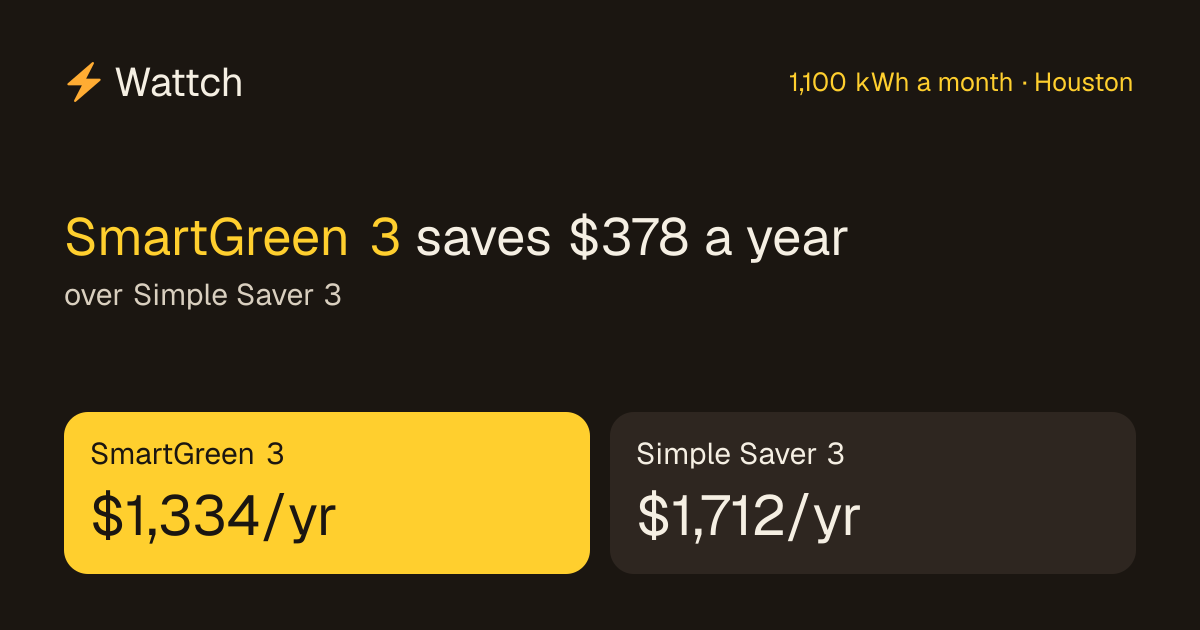
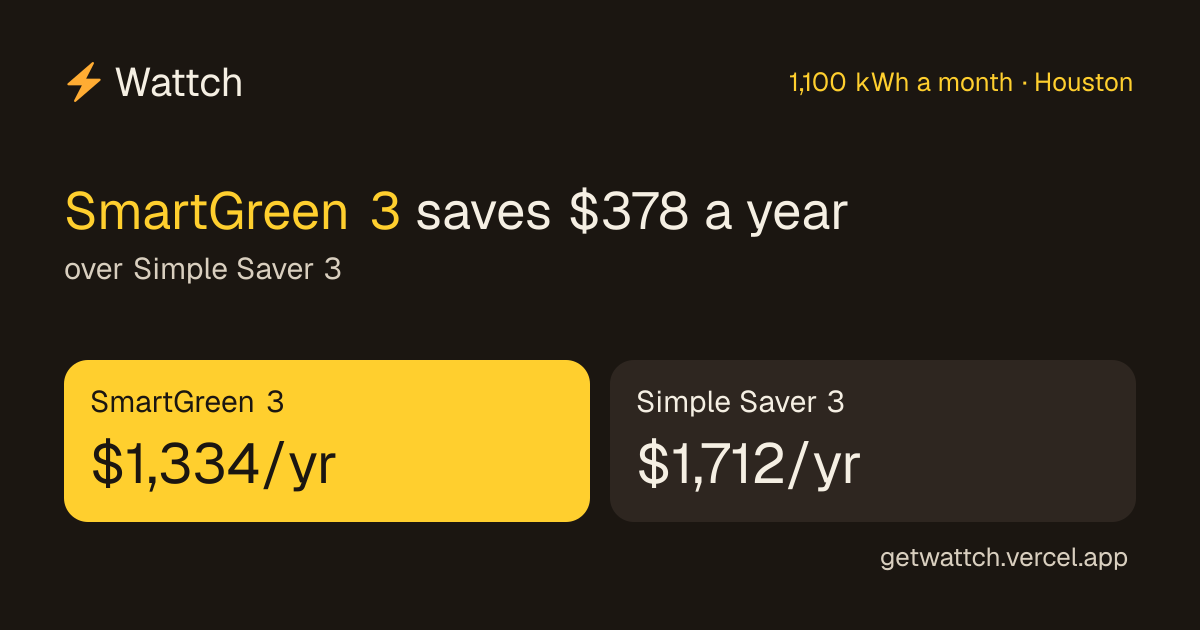
Codex 17: no findings. Card route: general result computed only when needed, one size/cache constant, compare card footer; route test proves all 7 variants return real PNGs. widths.mjs covers the Dallas compare pair + own months. 224 tests

diff --git a/src/app/api/card/route.tsx b/src/app/api/card/route.tsx
@@ -21,12 +21,9 @@ const money = (n: number) => n.toLocaleString("en-US", { style: "currency", curr
 export async function GET(req: Request) {
   const sp = new URL(req.url).searchParams;
   const { kwh, seasons, months, filters, withConditional, area, lang } = parseWallParams((k) => sp.get(k));
-  const r = reveal(clientPlans(area), kwh, { seasons, months, area, includeConditional: withConditional, ...filterOpts(filters) });
-  const big = r.pick && r.gap >= 1;
   const t = W[lang];
-  const why = r.pick ? whyLine(r.pick.plan.pricing!, r.pick.months, lang) : null;
-  // ?plan=<id> (plan pages): that plan's real cost and rank, when it's ranked; otherwise the general card below
   const opts = { seasons, months, area, includeConditional: withConditional, ...filterOpts(filters) };
+  // ?plan=<id> (plan pages): that plan's real cost and rank, when it's ranked; otherwise the general card below
   const planId = sp.get("plan");
   const st = planId ? standing(clientPlans(area), planId, kwh, opts) : null;
   // ?a=&b= (compare pages): the same yearly totals the compare page shows, when both plans exist in the same area
@@ -37,6 +34,10 @@ export async function GET(req: Request) {
     return compareCard(c, pa.meta.planName, pb.meta.planName, t, `${months ? t.mine : t.perMonth(kwh.toLocaleString("en-US"))} · ${AREAS[ar].city}`);
   }
   if (st) return planCard(st, t, `${months ? t.mine : t.perMonth(kwh.toLocaleString("en-US"))} · ${AREAS[area].city}${anyFilter(filters) ? t.filtered : ""}`);
+  // the general card: the state site's #1 vs your best (only computed when no plan/compare card was returned)
+  const r = reveal(clientPlans(area), kwh, opts);
+  const big = r.pick && r.gap >= 1;
+  const why = r.pick ? whyLine(r.pick.plan.pricing!, r.pick.months, lang) : null;
   return new ImageResponse(
     (
       <div style={{ width: "100%", height: "100%", display: "flex", flexDirection: "column", justifyContent: "space-between", background: "#1b1611", color: "#f5efe3", padding: "56px 64px", fontFamily: "sans-serif" }}>
@@ -62,7 +63,7 @@ export async function GET(req: Request) {
         </div>
       </div>
     ),
-    { width: 1200, height: 630, headers: { "Cache-Control": "public, max-age=3600" } },
+    SIZE,
   );
 }
 
@@ -120,9 +121,12 @@ function compareCard(c: ReturnType<typeof compareYear>, nameA: string, nameB: st
             : <div style={{ display: "flex", fontSize: 52, fontWeight: 800 }}>{t.sameCost}</div>}
           {d >= 1 && <div style={{ display: "flex", fontSize: 30, color: "#d9cfbf", marginTop: 8 }}>{t.over(lose)}</div>}
         </div>
-        <div style={{ display: "flex", gap: 20 }}>
-          {box(nameA, c.totalA, c.diff > 0)}
-          {box(nameB, c.totalB, c.diff < 0)}
+        <div style={{ display: "flex", flexDirection: "column" }}>
+          <div style={{ display: "flex", gap: 20 }}>
+            {box(nameA, c.totalA, c.diff > 0)}
+            {box(nameB, c.totalB, c.diff < 0)}
+          </div>
+          <div style={{ display: "flex", justifyContent: "flex-end", fontSize: 26, color: "#d9cfbf", marginTop: 18 }}>getwattch.vercel.app</div>
         </div>
       </div>
     ),

diff --git a/src/app/api/card/route.test.ts b/src/app/api/card/route.test.ts
@@ -1,0 +1,28 @@
+import { describe, expect, it, vi } from "vitest";
+
+vi.mock("server-only", () => ({}));
+const { GET } = await import("./route");
+
+const png = async (q: string) => {
+  const r = await GET(new Request(`http://x/api/card?${q}`));
+  const body = new Uint8Array(await r.arrayBuffer());
+  return { status: r.status, type: r.headers.get("content-type"), cache: r.headers.get("cache-control"), sig: [...body.slice(1, 4)].map((c) => String.fromCharCode(c)).join("") };
+};
+
+// Every share-card variant is a real PNG with the same cache header, including for bad or unknown input.
+describe("/api/card", () => {
+  for (const q of [
+    "kwh=1100", "kwh=1100&lang=es&area=dallas", // general card
+    "kwh=1100&plan=33633", "kwh=1100&plan=nope", // plan card / unknown plan → general
+    "kwh=1100&a=37797&b=33633&lang=es", "kwh=1100&a=37797&b=17283", // compare / mixed areas → general
+    "kwh=abc&area=xx&lang=fr&a=1&b=2&plan=", // nonsense
+  ]) {
+    it(q, async () => {
+      const r = await png(q);
+      expect(r.status).toBe(200);
+      expect(r.type).toBe("image/png");
+      expect(r.sig).toBe("PNG");
+      expect(r.cache).toBe("public, max-age=3600");
+    }, 30000);
+  }
+});

diff --git a/PROGRESS.md b/PROGRESS.md
@@ -172,3 +172,5 @@ Dallas–Fort Worth works everywhere; every page has Spanish (incl. loading scre
 - 2026-11-16 03:49 PT · U1 plan-card math moved to standing() in src/lib/rank.ts; test: standing = reveal (rank, count, gap) for the state #1 at 600/1,100/2,000 kWh in both areas, best = #1, demo #74/154/$378 and #91/137/$530. 217 tests. $0.
 - 2026-11-16 03:51 PT · U2 shared compare links preview the comparison: /api/card?a=&b= → 'SmartGreen 3 saves $378 a year over Simple Saver 3' + both yearly totals (cheaper one highlighted), EN/ES, same compareYear as the page; mixed areas → general card; same plan → 'Same yearly cost'. check-all PASS. $0.
 - 2026-11-16 03:53 PT · U4 own-months Spanish at 375 + Dallas: fits, 'Con tus propios 12 meses', $356, 6 months under 1,000 kWh (= the months given). The months.ts comment said ?m=820,700 — the real format is dots (commas read as thousands, so a comma list is ignored safely) → comment fixed. U9 Lighthouse /plan/33633 EN 94/100/100/91 (same as before the card change). U3 DEVPOST 'Share it' line mentions plan + compare previews (both verified tonight). $0.
+- 2026-11-16 03:53 PT · V2 all card variants send Cache-Control public, max-age=3600; each query is its own URL, so plan/compare/general previews can't mix. V5 /remind keeps the general card (no result on that page to show). No change. $0.
+- 2026-11-16 03:56 PT · U10 Codex review 17: no findings. V1 card route computes the general result only when no plan/compare card is returned; one SIZE/cache constant. V3 compare card gets the site footer. V4 src/app/api/card/route.test.ts: 7 variants (general, Dallas ES, plan, unknown plan, compare ES, mixed areas, nonsense) all 200 image/png, real PNG bytes, same cache header. V9 widths.mjs + Dallas compare pair + own-months page (40 checks pass). 224 tests. $0.

diff --git a/BACKLOG.md b/BACKLOG.md
@@ -212,4 +212,16 @@
 - [x] U7 Re-run es-walk + widths + meta-check + axe as one 'all checks' script (scripts/check-all.mjs) for the morning
 - [x] U8 README: 'How to check' section lists check-all
 - [x] U9 Lighthouse /plan/33633 EN after card change (no perf hit)
-- [ ] U10 Codex review 17 after U batch
+- [x] U10 Codex review 17 after U batch
+
+## V batch (added 03:53, night 2)
+- [x] V1 Card route: skip the general reveal() when a plan/compare card is returned (wasted work per preview)
+- [x] V2 Card cache header: plan/compare cards same max-age; confirm Vercel caches by full query (doc only)
+- [x] V3 Plan + compare cards: footer line (getwattch.vercel.app) on compare card like the others
+- [x] V4 Test: card route returns image/png for plan=, a=&b=, bad ids (route test, no pixel check)
+- [x] V5 /remind preview card: generic card ok? (decide, log)
+- [ ] V6 JUDGE-QA: 'what does a shared link show?' — only if Q list < 22
+- [ ] V7 SCRIPT scene 11 optional line: 'a plan link shows that plan' (+5 s) — only if under cap
+- [ ] V8 STATUS.md: add U batch (previews, check-all, standing test)
+- [x] V9 widths.mjs: add /compare Dallas pair + own-months URL
+- [ ] V10 Codex review 18 after V batch
